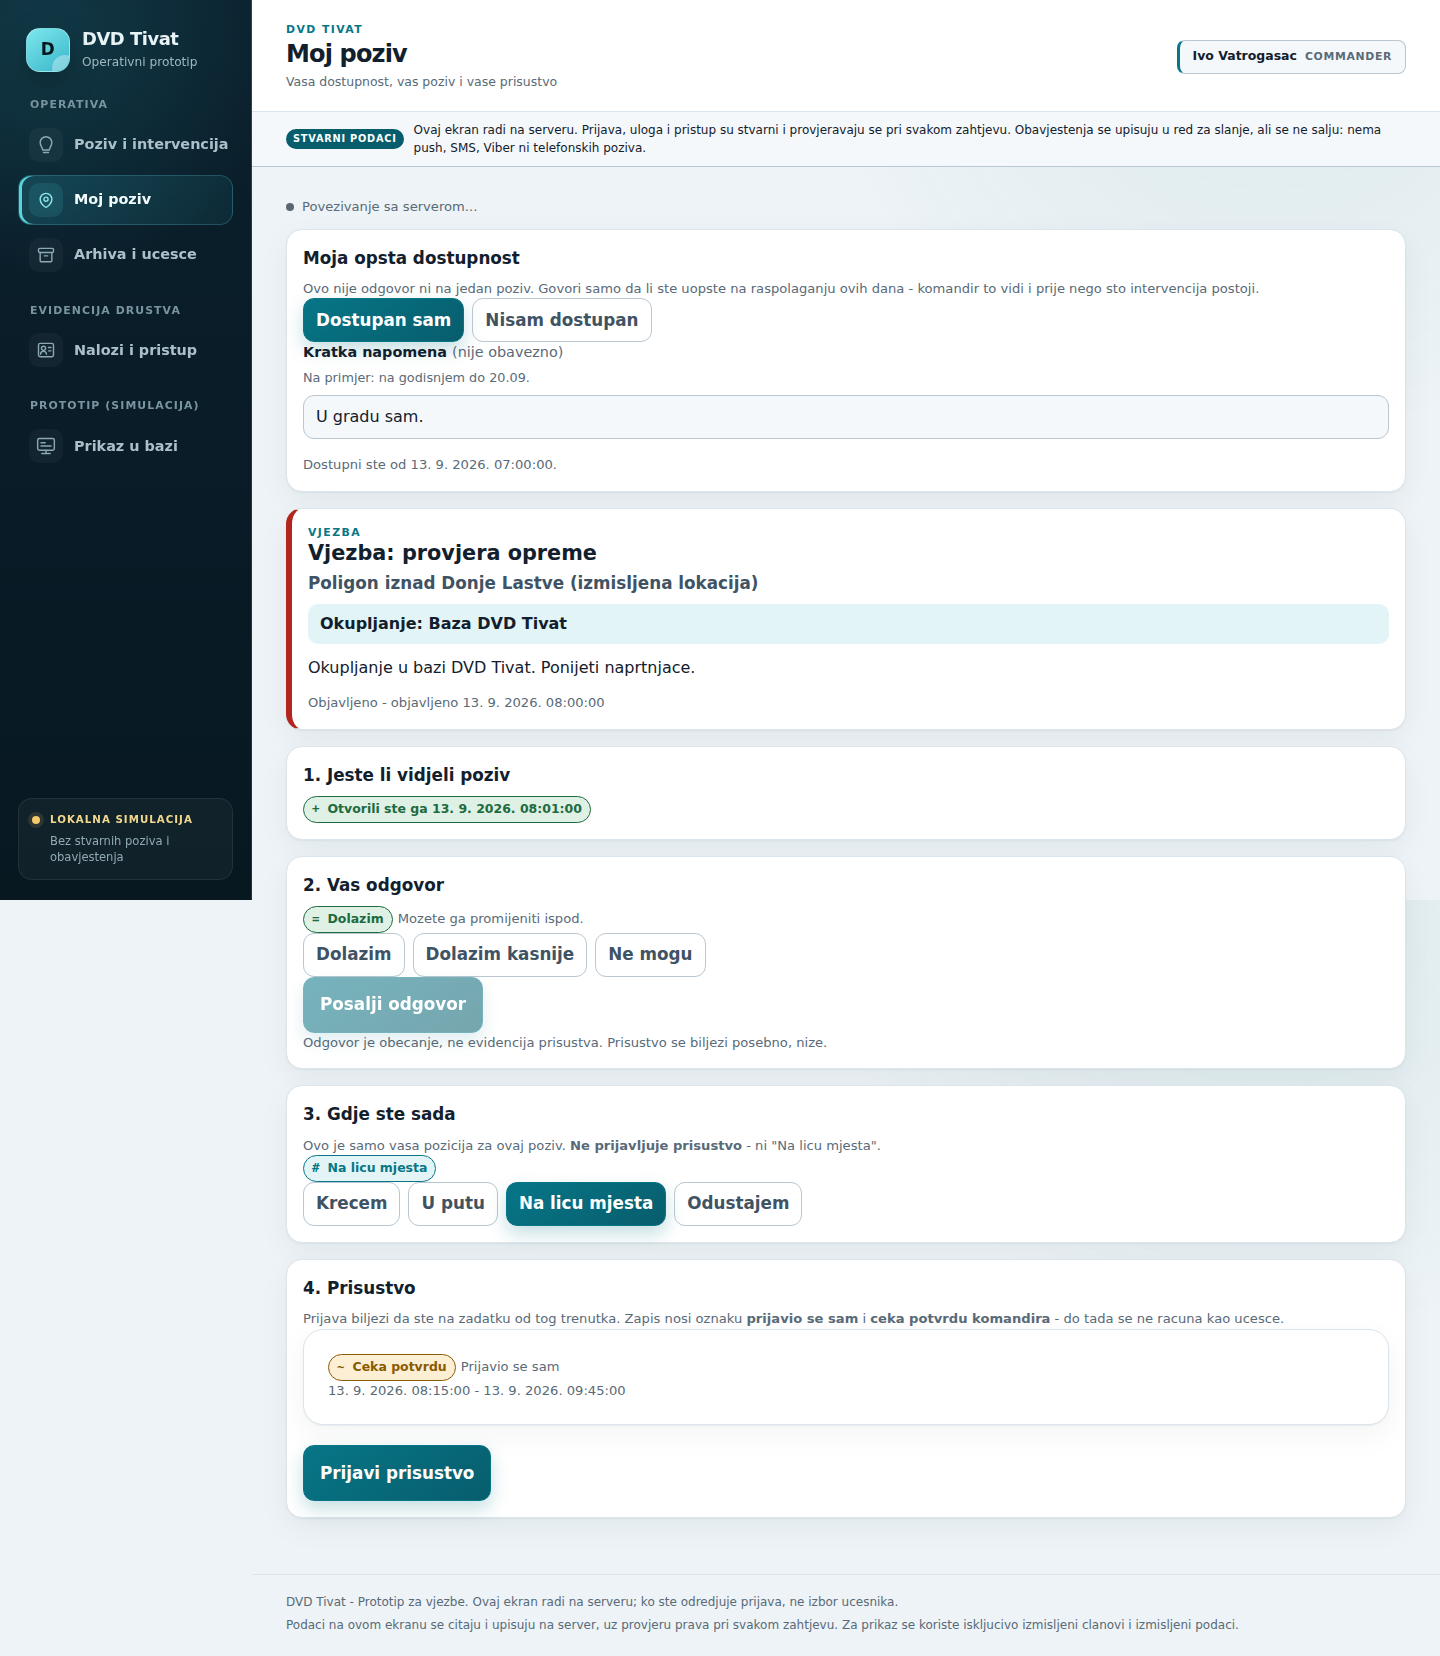
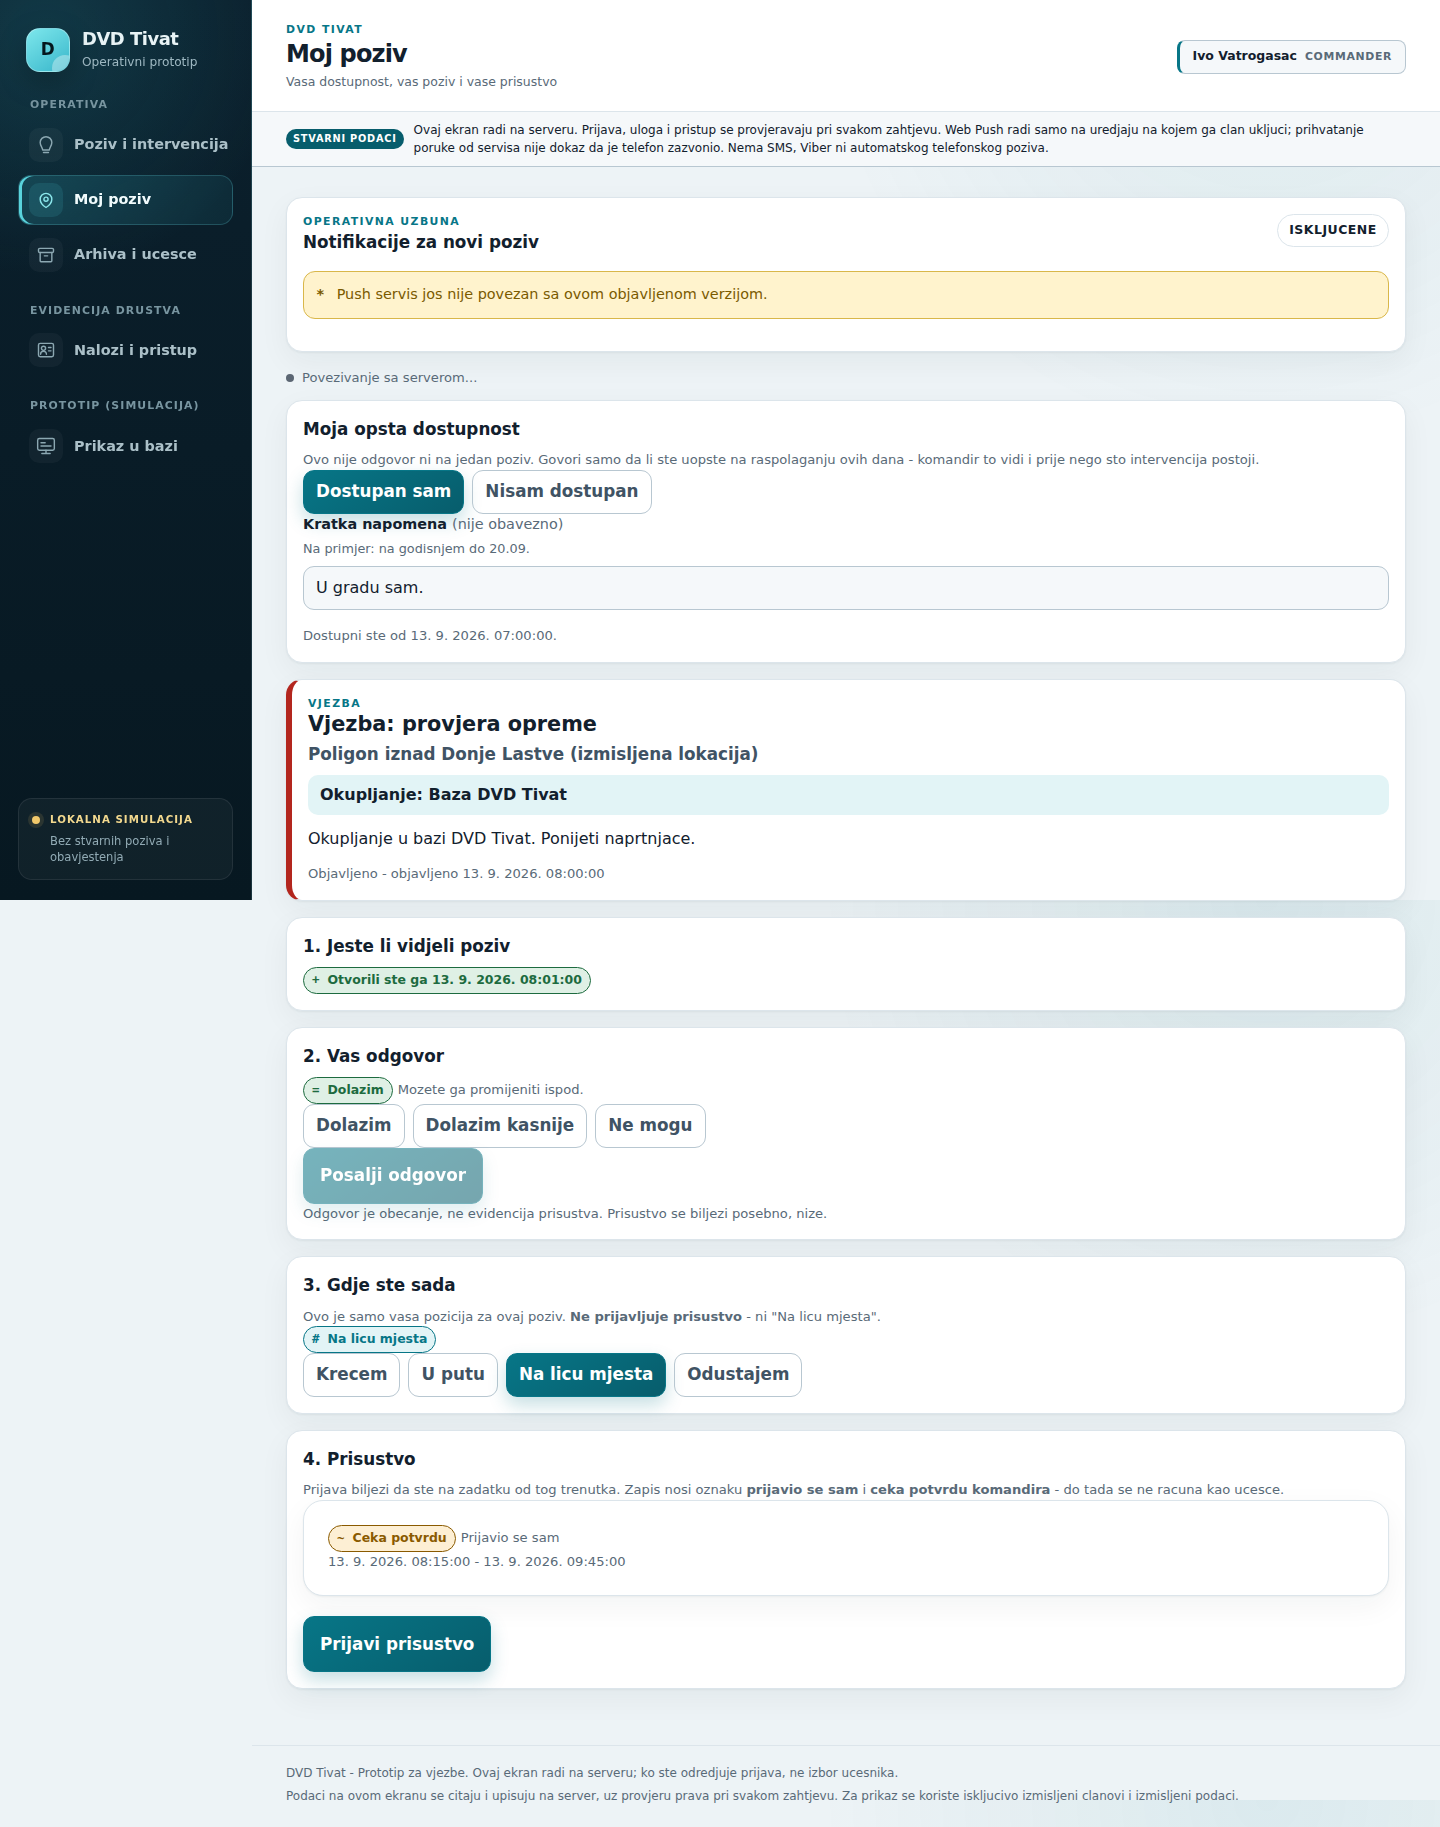
Record what Web Push does, and what is not yet deployed
DATABASE.md gains the two facts review changed: the opening is checked before
every attempt rather than only before a repeat, and the close reason is
constrained so a closure cannot be recorded for a reason nobody can audit. It
also names where the worker's policy lives now and why it is a separate module.

PROJECT_STATE.md says plainly that nothing hosted has changed: no migration, no
Edge Function, no secrets, no scheduler, no repository variable - so a deployed
build reports NOT_CONFIGURED and no alert can be sent at all. That is a
permission blocker, not a decision, and it is recorded as one rather than left
for somebody to discover.

Claude-Session: https://claude.ai/code/session_01RQBcnBwKoSZU8NsR5ytEuJ

Changed region(s): [[0.0, 0.0, 1.0, 0.9239], [0.0, 0.0, 0.1562, 0.2772], [0.1875, 0.9547, 0.8438, 0.9855]]

diff --git a/docs/ai/WORK_LOG.md b/docs/ai/WORK_LOG.md
@@ -1,7 +1,63 @@
-# Work log
+## 2026-09-14 - Reviewing the Web Push handoff
 
-Newest entry first. One entry per unit of work, written in the same commit as the work itself.
-Record what was done, what was verified, and what the next concrete action is.
+A patch arrived from another environment, based on `7fa8ec3` and carrying
+protected Web Push. It applied onto the real `origin/main` with no conflict -
+main had not moved. Its SHA-256 matched the one stated in the handoff. What
+follows is the review, which is the part that mattered.
+
+**The consent defect.** `repairWebPushRegistration` created a subscription when
+it found none. That reads as harmless repair and is not: `disableWebPush`
+unsubscribes locally, so the next time a member opened their call-out screen the
+repair made a fresh subscription and registered it with the server. **Turning
+the alarm off lasted until the next page load**, silently. Opt-in has to mean
+opt-in, so repair now re-registers a subscription the browser ALREADY holds and
+can never create one. Proved by restoring the old body and watching two of the
+new tests fail.
+
+**A queued alert could wake somebody about something they were reading.** The
+acknowledgement check ran only before a REPEAT. On the recovery path a QUEUED
+row whose immediate wake-up failed can sit for minutes while the member opens
+the call-out in the application; the next scheduled scan would then alarm them
+about it. Checked before every attempt now, the first included.
+
+**Smaller, all real.** The scheduler's secret was compared with `===`, which
+short-circuits at the first differing byte. `notificationclick` navigated every
+open window and focused the first, which would pull a commander's console away
+from what they were doing on the same device. `requestedInterventionId` was a
+second hash-query parser standing beside the router's own. The panel's state
+chip was not announced, so the button that changes it told a screen-reader user
+nothing.
+
+**The comments.** The patch stripped the explanatory comments out of
+`publish_intervention` while replacing its body. `DATABASE.md` already records
+what that cost once - thirteen functions hashing differently for no behavioural
+reason - so the exact repository text is restored and the new push block is
+commented in the same voice.
+
+**A test that was wrong about a function that was right.** The patch expected
+`ELIGIBLE_MEMBER_REQUIRED` where registration raises
+`OPERATIONAL_ACCESS_REQUIRED`. `current_dvd_role()` was tightened in an earlier
+slice to require a complete profile, so an unfinished account has no operational
+role and is turned away one gate earlier; the second refusal is unreachable for
+it. Expectation corrected with the reason written down, and every case in that
+block now also asserts that **nothing was stored** - the property, rather than
+the error string.
+
+**What had no tests at all.** The worker's policy - how long before a repeat,
+how many attempts exist, the five conditions re-checked at send time, and
+exactly which three fields may reach a locked screen - lived inside an Edge
+Function that only runs in Deno against a live push service. It is a pure module
+now, imported by the function and exercised by Vitest: 23 tests, including one
+that tries to widen the payload by passing a title and a location and proves
+neither survives. Two database tests cover the atomic claim under three
+concurrent workers and the delivery-close reason the schema will accept.
+
+**Not done, and not claimed.** The hosted migration, the Edge Function
+deployment, the VAPID and worker secrets and the scheduled invocation all need
+Supabase MCP calls that this session could not get approved. Nothing was applied
+to `yskhdzrdbywrpfowckpn`; its schema is unchanged and it still has no Edge
+Functions. The hosted fictional test and the physical-device test follow from
+that configuration and are equally outstanding.
 
 ---
 

diff --git a/docs/DATABASE.md b/docs/DATABASE.md
@@ -558,6 +558,26 @@ When an opening is found, the row receives `delivery_closed_at` and
 That closure is not described as a device delivery receipt — the authoritative
 opening remains the separate `intervention_acknowledgements` row.
 
+**The opening is checked before every attempt, including the first.** Review
+found the check running only before a repeat, which left a real hole on the
+recovery path: a `QUEUED` row whose immediate wake-up failed can sit for minutes
+while the member opens the call-out through the in-app path, and the next
+scheduled scan would then raise an alarm about something they were already
+looking at.
+
+`delivery_close_reason` is constrained to the reasons the schema recognises, so
+a closure cannot be recorded for a reason nobody can audit later. A close time
+without a reason, or a reason without a time, is rejected by the same
+constraint — half a record of a closure is not a record of one.
+
+The rules the worker applies — how long before a repeat, how many attempts exist
+at all, the five conditions re-checked at send time, and exactly which three
+fields may reach a locked screen — live in
+`supabase/functions/send-web-push/policy.ts` as pure functions. They run in Deno
+in production and under Vitest in CI, because a rule that decides whether a
+phone makes a noise at three in the morning should not be reachable only by a
+live push service.
+
 ### Web Push subscription authority
 
 `web_push_subscriptions` stores endpoint, public encryption key, authentication

diff --git a/docs/ai/PROJECT_STATE.md b/docs/ai/PROJECT_STATE.md
@@ -250,6 +250,23 @@ is also why C8's Viber and telephone fallback is not optional.
 
 ## Status of the latest slice
 
+**Web Push, reviewed but NOT yet deployed.** A handoff patch adding protected
+Web Push call-out alerts was applied onto `7fa8ec3` (no conflict, hash verified)
+on branch `claude/web-push-notifications`, and seven defects found in review were
+fixed - full detail in `docs/ai/WORK_LOG.md`. The most serious: repairing a push
+registration could silently re-enable an alarm a member had turned off.
+
+**Nothing hosted has changed.** The Supabase project `yskhdzrdbywrpfowckpn` has
+not had migration `202609150012` applied, has no Edge Function deployed, holds no
+VAPID or worker secret, and has no scheduled invocation. The repository variable
+`VITE_WEB_PUSH_PUBLIC_KEY` is not set, so a deployed build reports
+`NOT_CONFIGURED` and offers no opt-in. This is a permission blocker, not a
+decision: the Supabase management calls this session needed were not approved.
+
+Until that configuration exists, **no push alert can be sent at all**, and no
+claim about one should be made. The in-app call-out path is unaffected.
+
+
 **The measured record.** Nine defects from an independent hosted-browser review,
 fixed on branch `claude/dvd-tivat-app-dev-n8wctb`. Full detail is in
 `docs/ai/WORK_LOG.md`; the headlines:
